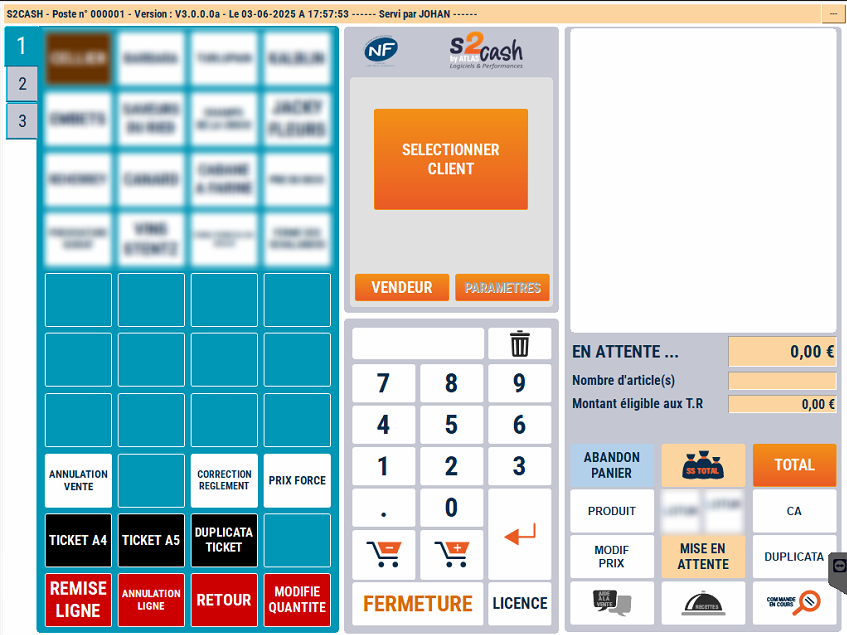
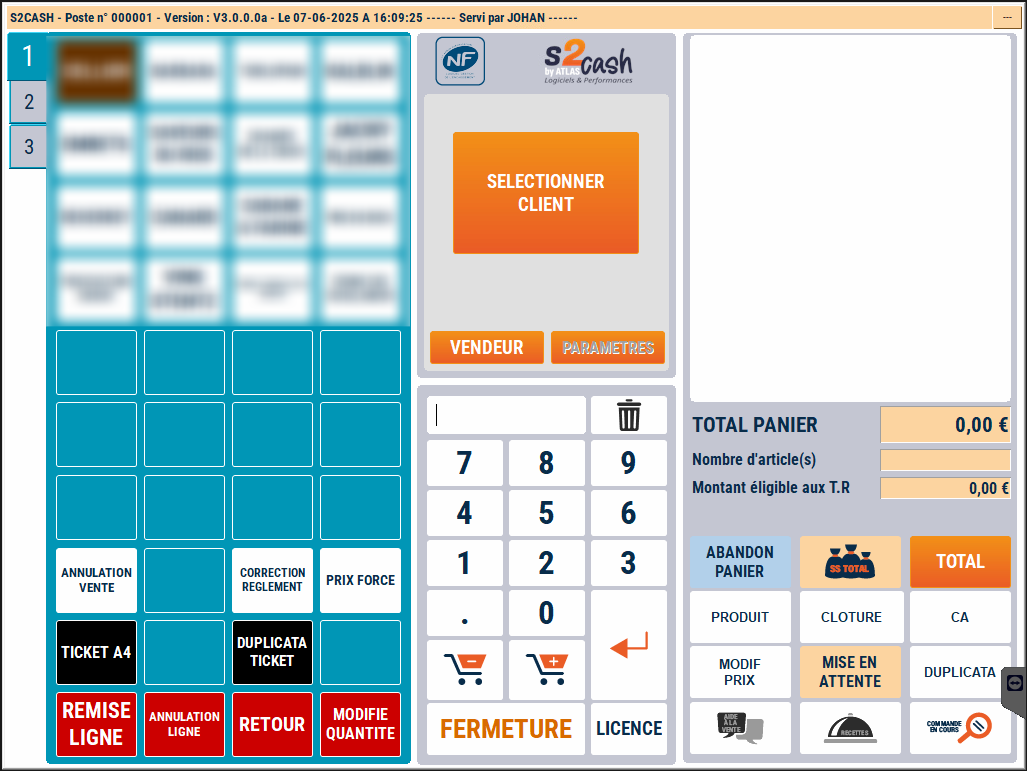
modifs ticket A5

Changed region(s): [[0.0, 0.0, 1.0, 1.0], [0.4604, 0.2094, 0.5832, 0.2992], [0.4298, 0.2992, 0.4604, 0.3291]]

diff --git a/docs/manuel-caisse/caisse/ticket/duplicata-ticket.md b/docs/manuel-caisse/caisse/ticket/duplicata-ticket.md
@@ -6,23 +6,19 @@ sidebar_position: 10
 Vous pouvez **réimprimer une vente du jour ou d’une journée précédente** à la demande.
 
 
-3 possibilités vous sont offertes suivant votre configuration :
+2 possibilités vous sont offertes suivant votre configuration :
 
 <li> Imprimer un duplicata de ticket de caisse </li>
 
 <li> Imprimer un ticket de caisse en format A4 </li>
-
-<li> Imprimer un ticket de caisse en format A5 si vous possédez un imprimante ticket multi fonction  </li> 
-
 
 
 | Bouton | Description | 
 |:-----------:|-----------|
 |![logo de seg2inov](../assets/buttonduplicataticket.PNG)| Pour réimprimer un ticket, appuyez sur la touche ```DUPLICATA TICKET```. Un ticket inscrit **DUPLICATA** s’imprime |
 |![logo de seg2inov](../assets/ticketA4.PNG)| Pour imprimer un ticket de caisse sur l’imprimante A4 en réseau avec la caisse, appuyez sur la touche ```TICKET A4```|
-|![logo de seg2inov](../assets/ticketA5.PNG)|Pour imprimer un ticket de caisse en format A5 sur l’imprimante multifonction de la caisse, appuyez sur la touche ```TICKET A5```|
 
-Dans les 3 cas, S2Cash by ATLAS affiche d’abord tous les tickets du jour par caissier ou par caisse.
+Dans les 2 cas, S2Cash by ATLAS affiche d’abord tous les tickets du jour par caissier ou par caisse.
 
 | Ecran | Description | 
 |:-----------:|-----------|

diff --git a/docs/manuel-caisse/caisse/mise-en-attente-vente.md b/docs/manuel-caisse/caisse/mise-en-attente-vente.md
@@ -8,7 +8,7 @@ sidebar_position: 9
 Cette fonction vous permet de mettre une vente en attente, de manière à libérer la caisse et passer à un autre client.
 
     <div className="contenaireImg">
-        ![logo de seg2inov](./assets/enattente.PNG) 
+        ![logo de seg2inov](./assets/miseenattente.PNG) 
     </div>
 
 ### Par exemple :
@@ -33,7 +33,7 @@ Si vous aviez sélectionné un client lors de la vente, son nom apparaît sur le
 
 
     <div className="contenaireImg">
-        ![logo de seg2inov](./assets/ticket.PNG) 
+        ![logo de seg2inov](./assets/panierenattente.PNG) 
     </div>
 
 

diff --git a/docs/manuel-caisse/produit/remise.md b/docs/manuel-caisse/produit/remise.md
@@ -9,7 +9,7 @@ Vous pouvez pratiquer une remise en pourcentage sur un produit de la vente en co
 
 
     <div className="contenaireImg">
-    ![logo de seg2inov](./assets/remise.PNG)
+    ![logo de seg2inov](./assets/remiseproduit.PNG)
     </div>
 
 

diff --git a/docs/manuel-caisse/produit/annuler.md b/docs/manuel-caisse/produit/annuler.md
@@ -8,7 +8,7 @@ Pour annuler un produit saisi que le client ne veut plus ou pour rectifier une e
 
 
 <div className="contenaireImg"> 
-    ![logo de seg2inov](./assets/annulproduit.PNG)
+    ![logo de seg2inov](./assets/arproduit.PNG)
     </div>
 
 

diff --git a/docs/manuel-caisse/produit/retour-produit.md b/docs/manuel-caisse/produit/retour-produit.md
@@ -8,7 +8,7 @@ Le client ramène un produit :
 
 
 <div className="contenaireImg">
-    ![logo de seg2inov](./assets/retourproduit.PNG)
+    ![logo de seg2inov](./assets/arproduit.PNG)
     </div>
 
 
